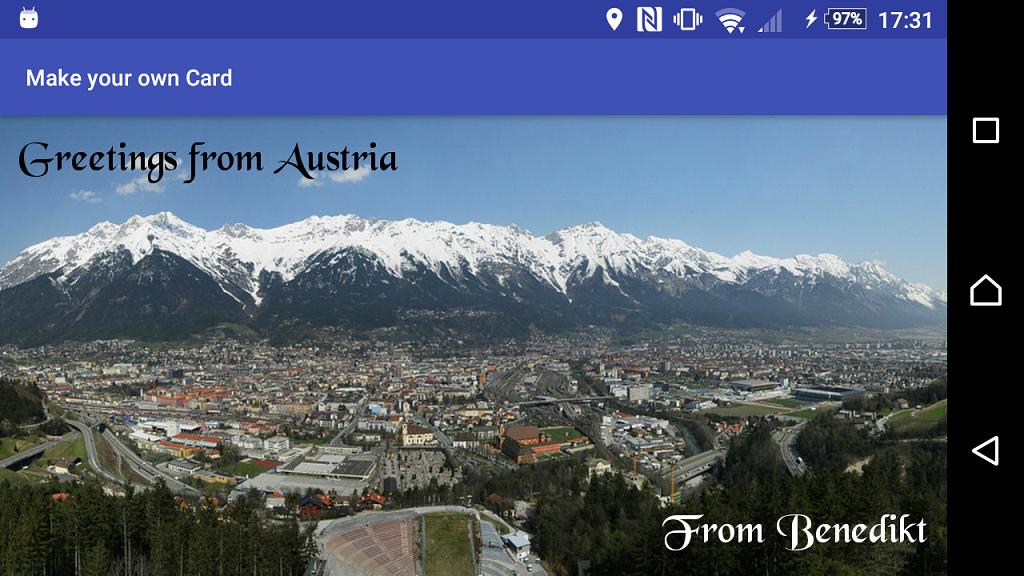
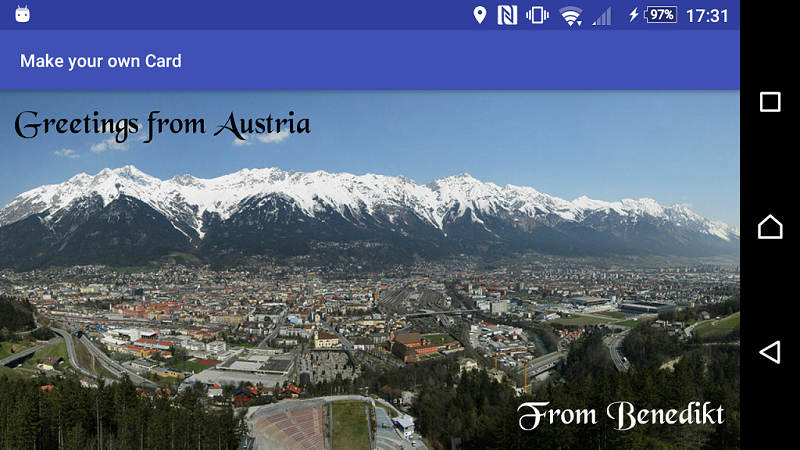
resized Images, fixed a typo

diff --git a/README.md b/README.md
@@ -6,7 +6,8 @@ In Order to complete the exercise we had to design a Card first with Pen and Pap
 [Requirement Specification](https://classroom.udacity.com/courses/ud834-eu/lessons/2bdfe89e-b44c-4789-90a6-755077aff7f8/concepts/43534185690923#)
 
 
-The  ![Mockup](/screens/mockup.jpg) show that I wanted sort of a Postcard look and feel. 
+The  Mockup shows that I wanted sort of a Postcard look and feel. 
+![Mockup](/screens/mockup.jpg)
 To achive this view I used a vertical layout to stack some TextViews on top of each other. 
 To seperate the text from the adress view i used a View layout with the height of 1px (-> px cause I want it to be the same height on all devices). 
 The same is used as seperator for the Adress lines. 
@@ -15,5 +16,7 @@ The Stamp is an ImageView put into place with android:layout_gravity="right|end|
 Since a postcard has two sides i used Androids rotate/landscape layout to display another layout (activity_main in res/layout-land) which is just a 
 fullscreen ImageView with some Text. 
 
- ![Front](/screens/portrait_card.png)
- ![Back](/screens/landscape_card.png)
+![Front](/screens/portrait_card.png)
+![Back](/screens/landscape_card.png)
+
+It looks like the custom font can't really be displayed... 
